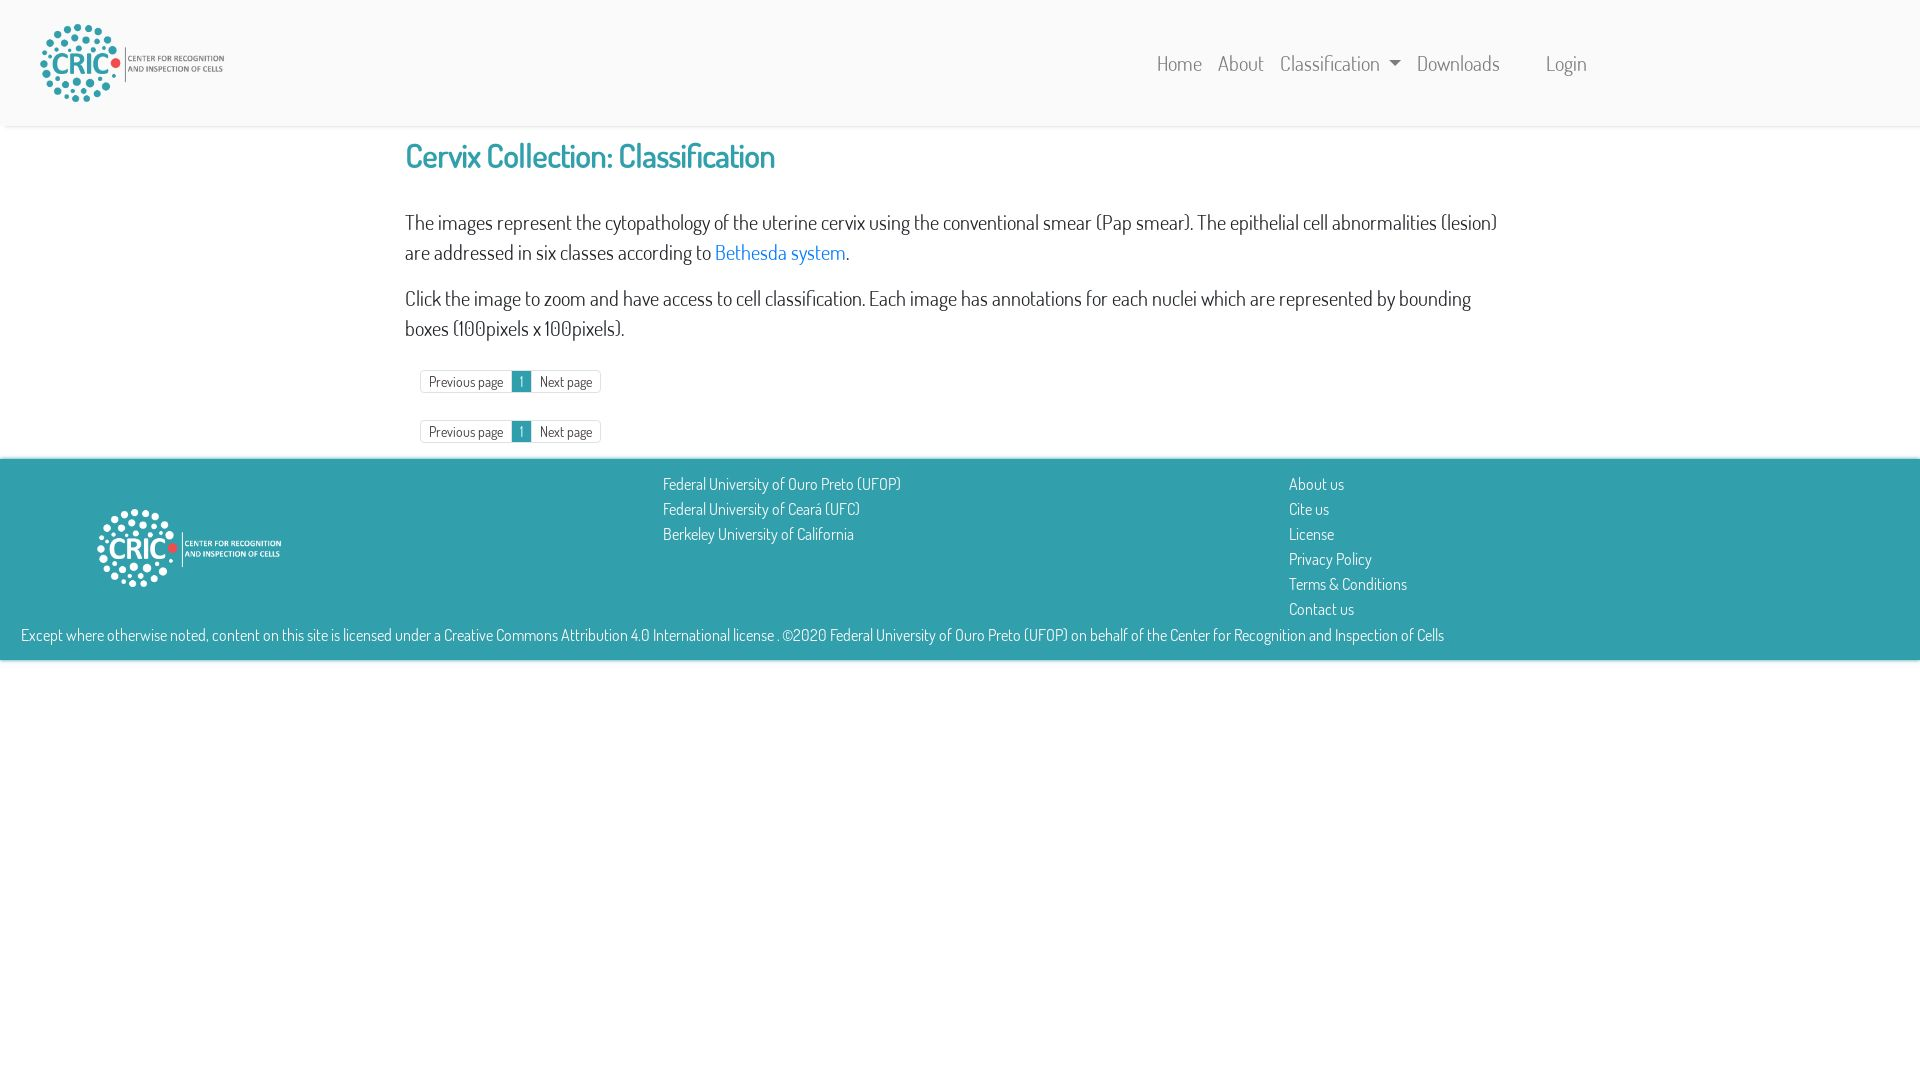
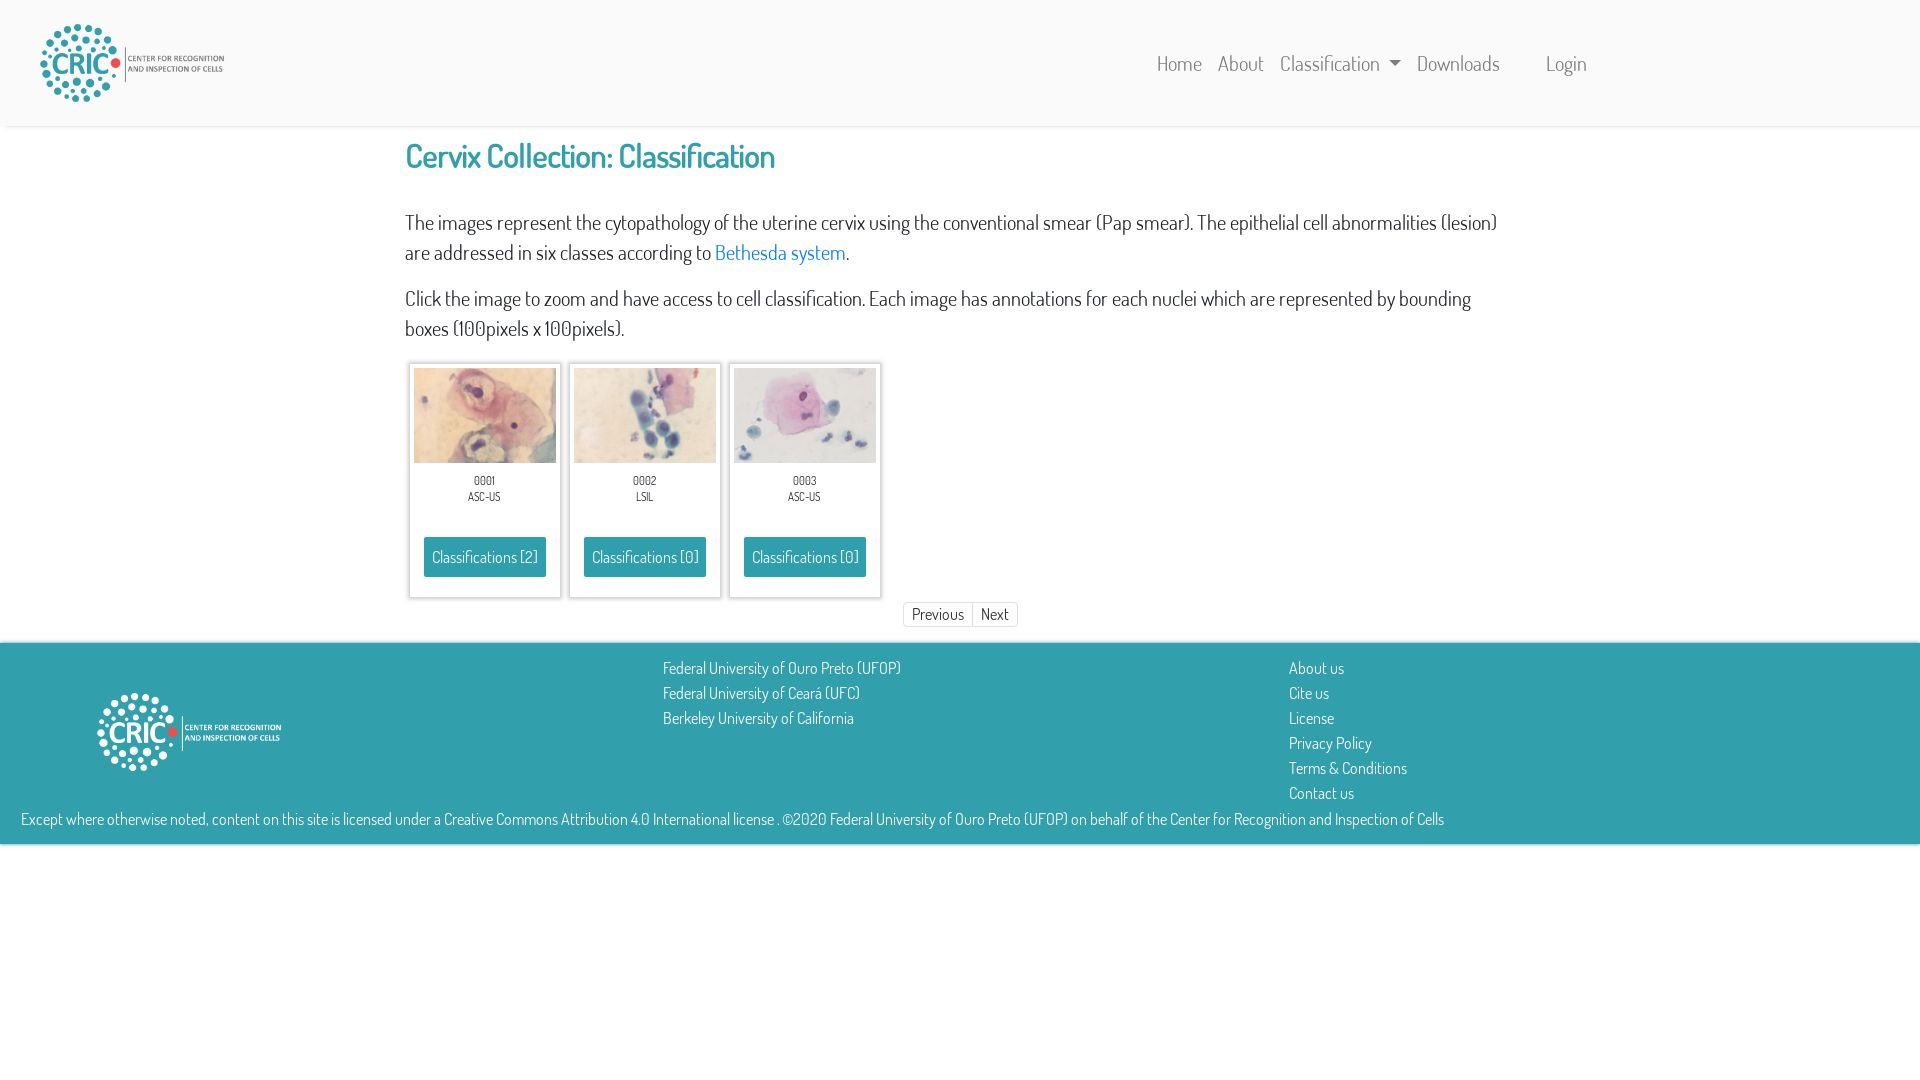
Fix Screenshot of /classification
Close https://github.com/CRICDatabase/searchable-image-database-angular/issues/84

diff --git a/docs/screenshots/anonymous.py b/docs/screenshots/anonymous.py
@@ -51,11 +51,7 @@ async def main():
         ),
     )
     await asyncio.gather(
-        page.waitForNavigation(
-            {
-                'waitUntil': 'networkidle0'
-            }
-        ),
+        page.waitForSelector('.card-flex-box'),
         page.click(
             'a[href="/classification"]'
         ),
